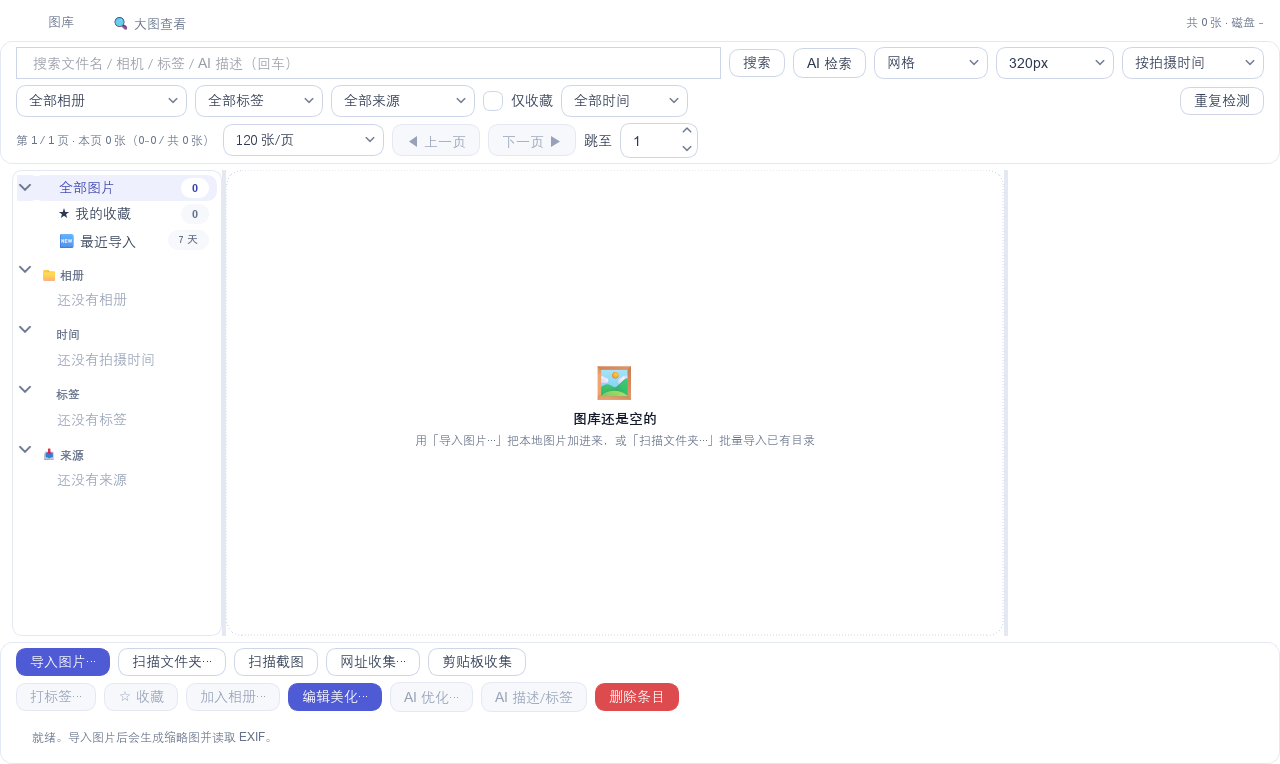
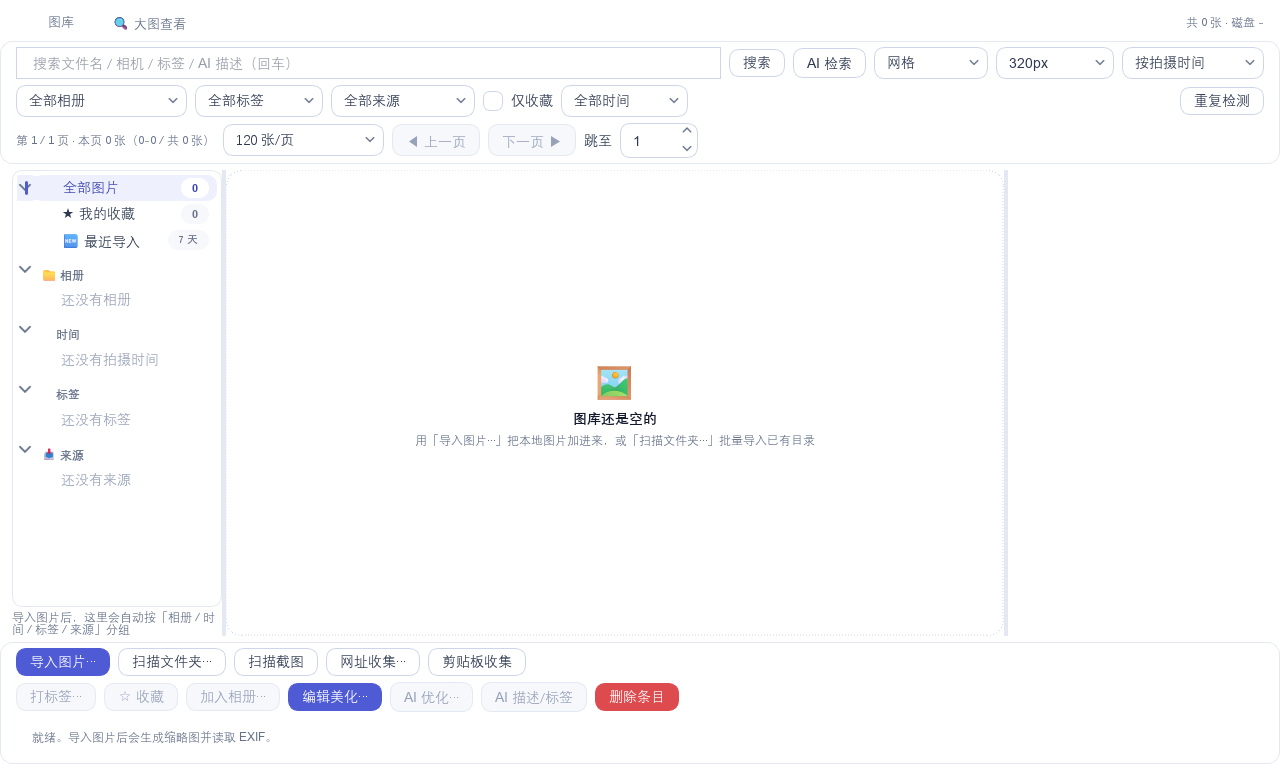
polish(v1.0.3): 图库树收尾（底部提示 + 选中强调条）并重新打包
- 树下方挂一行常驻提示（空库给下一步，有图给"共 N 张 · 点节点筛选"），收住面板底部空白；
- 选中行加 3px 左侧强调条（accent），与浅色悬停彻底区分。
  关键：必须画在委托之后 —— 委托的 initStyleOption 会把 State_Selected 找回来，
  QSS 的 ::item:selected 会盖住竖条（实测只剩 1px）；已写进注释并被像素测试锁住，且反证过。
- 树行文本左内边距为强调条让位（非分组行 SPACE.md）；同步更新像素测试采样点。
- docs/ui/board-gallery.png 重新生成并目视确认。
- 重新打包：产物 SHA256 更新为 E98DC5A2...3E7D74 / 793A9DC8...69A2F42（FileVersion 1.0.3）

diff --git a/src/modu_workbench/boards/gallery/board.py b/src/modu_workbench/boards/gallery/board.py
@@ -307,10 +307,21 @@ class GalleryBoardPage(QWidget):
         # 因此这里做成树形：点任意节点即把右侧网格筛成对应集合。
         # 外观由 CategoryNavTree 接管（通栏圆角选中态 + 计数徽章 + 紧凑行高），
         # 不再沿用 QTreeWidget 的默认蓝色方块选中框。
+        # 树下方挂一行常驻提示：既给"下一步做什么"，也让面板底部不再是一大片空白。
+        side_holder = QWidget()
+        side_layout = QVBoxLayout(side_holder)
+        side_layout.setContentsMargins(0, 0, 0, 0)
+        side_layout.setSpacing(SPACE["xs"])
         self._side = CategoryNavTree()
         self._side.setMinimumWidth(190)
         self._side.itemClicked.connect(self._on_side_clicked)
-        self._splitter.addWidget(self._side)
+        side_layout.addWidget(self._side, 1)
+        self._side_hint = QLabel("")
+        self._side_hint.setObjectName("readerStatus")
+        self._side_hint.setWordWrap(True)
+        self._side_hint.setToolTip("节点右侧的数字是该分类下的图片数量")
+        side_layout.addWidget(self._side_hint)
+        self._splitter.addWidget(side_holder)
 
         self._grid = ThumbnailGrid(self._library)
         self._grid.setMinimumWidth(260)
@@ -751,6 +762,19 @@ class GalleryBoardPage(QWidget):
         # 延后重建：直接重建会在左侧树节点点击事件处理中销毁该节点（shiboken 崩溃）
         self._schedule_side_refresh()
 
+    def _update_side_hint(self, total: int) -> None:
+        """树下方那行常驻提示。
+
+        空库时给"下一步做什么"（符合本项目的空状态约定），有图时给操作提示；
+        顺带把面板底部的空白收住，不再是一片空荡荡的树。
+        """
+        if not hasattr(self, "_side_hint"):
+            return
+        if total <= 0:
+            self._side_hint.setText("导入图片后，这里会自动按「相册 / 时间 / 标签 / 来源」分组")
+        else:
+            self._side_hint.setText(f"共 {total} 张 · 点节点筛选，右键图片可加入相册/打标签")
+
     def _refresh_side(self) -> None:
         """重建左侧导航树：图库概览 / 相册 / 时间 / 标签 / 来源。
 
@@ -780,6 +804,7 @@ class GalleryBoardPage(QWidget):
         self._side.clear()
 
         total = self._library.storage.count_images()
+        self._update_side_hint(total)
         root = add(None, "🖼 全部图片", {"all": True}, badge=total)
         add(root, "★ 我的收藏", {"favorite": True}, badge=self._favorite_count())
         add(root, "🆕 最近导入", {"recent_days": 7}, badge="7 天")

diff --git a/src/modu_workbench/boards/gallery/nav_tree.py b/src/modu_workbench/boards/gallery/nav_tree.py
@@ -51,6 +51,9 @@ BADGE_HEIGHT = 20              # 胶囊高：比行高小 6px，上下各有 3px
 BADGE_PAD_X = SPACE["sm"]      # 8：胶囊左右内边距
 BADGE_MIN_WIDTH = 28           # 一位数计数也保持等宽，数字才能对齐成一列
 BADGE_GAP = SPACE["sm"]        # 8：胶囊与标题之间的最小间距
+SELECT_BAR_WIDTH = 3           # 选中行左侧强调条宽度
+SELECT_BAR_INSET = SPACE["xs"]  # 4：强调条距离胶囊左边缘
+SELECT_BAR_VMARGIN = 5         # 上下各留 5px，竖条不顶满行高
 
 
 class CategoryNavDelegate(QStyledItemDelegate):
@@ -103,7 +106,7 @@ class CategoryNavDelegate(QStyledItemDelegate):
             font.setBold(True)
         painter.setFont(font)
 
-        left = row.left() + SPACE["sm"]
+        left = row.left() + (SPACE["sm"] if group else SPACE["md"])
         right = row.right() - ROW_INSET - SPACE["xs"]
         badge = self._badge_rect(painter, row, right, index)
         if badge is not None:
@@ -229,6 +232,23 @@ class CategoryNavTree(QTreeWidget):
         opt.state &= ~QStyle.StateFlag.State_MouseOver
         opt.state &= ~QStyle.StateFlag.State_HasFocus
         super().drawRow(painter, opt, index)
+        # 强调条必须画在**委托之后**：委托的 initStyleOption 会把 selected 状态找回来，
+        # QSS 的 ::item:selected 底色于是盖在竖条上（实测只剩最左边 1px）。
+        # 这条 3px 竖条把「当前所在分类」与「鼠标划过」明确分开 ——
+        # accent_soft 与 surface_hover 都是浅色，只靠底色区分不够。
+        if not group and selected:
+            painter.save()
+            painter.setRenderHint(QPainter.RenderHint.Antialiasing, True)
+            pill = QRectF(opt.rect).adjusted(ROW_INSET, 1, -ROW_INSET, -1)
+            painter.setPen(Qt.PenStyle.NoPen)
+            painter.setBrush(QColor(tokens.accent))
+            painter.drawRoundedRect(
+                QRectF(pill.left() + SELECT_BAR_INSET,
+                       pill.top() + SELECT_BAR_VMARGIN,
+                       SELECT_BAR_WIDTH,
+                       pill.height() - 2 * SELECT_BAR_VMARGIN),
+                SELECT_BAR_WIDTH / 2, SELECT_BAR_WIDTH / 2)
+            painter.restore()
         # 键盘焦点：1px 强调色描边取代默认虚线框（焦点可见，但不刺眼）
         if not group and self.hasFocus() and self.currentIndex() == index:
             painter.save()

diff --git a/tests/architecture/test_ui_design_system.py b/tests/architecture/test_ui_design_system.py
@@ -239,8 +239,20 @@ def test_tree_selection_is_tinted_not_system_blue(qapp: QApplication) -> None:
     assert _nearest_distance(sample(1), system_blue) > 60, \
         f"缩进列出现了系统高亮蓝：{sample(1).name()}"
     # 胶囊必须盖住缩进列（content rect 从 indentation 处才开始）—— 整行一块，没有接缝
-    assert _nearest_distance(sample(ROW_INSET + 4), accent_soft) <= 12, \
-        f"选中行在缩进列不是主题浅紫：{sample(ROW_INSET + 4).name()}"
+    # 采样点夹在「焦点描边」(x=ROW_INSET) 与「强调条」(x=ROW_INSET+SELECT_BAR_INSET) 之间
+    assert _nearest_distance(sample(ROW_INSET + 1), accent_soft) <= 12, \
+        f"选中行在缩进列不是主题浅紫：{sample(ROW_INSET + 1).name()}"
+
+    # 左侧强调条：必须画在**委托之后**。委托的 initStyleOption 会把 selected 状态找回来，
+    # QSS 的 ::item:selected 底色会盖住先画的竖条（实测只剩 1px）—— 这里量它确实够宽。
+    from modu_workbench.boards.gallery.nav_tree import SELECT_BAR_INSET, SELECT_BAR_WIDTH
+
+    bar_left = ROW_INSET + SELECT_BAR_INSET
+    bar_pixels = [sample(bar_left + step) for step in range(SELECT_BAR_WIDTH)]
+    assert all(_nearest_distance(color, accent) <= 12 for color in bar_pixels), (
+        "选中行左侧强调条缺失或被委托底色覆盖："
+        f"{[color.name() for color in bar_pixels]}（期望 {accent.name()}）"
+    )
 
     # 键盘焦点：仍然可见，但换成自己画的强调色描边（不是 Fusion 虚线框）
     tree.setFocus()
